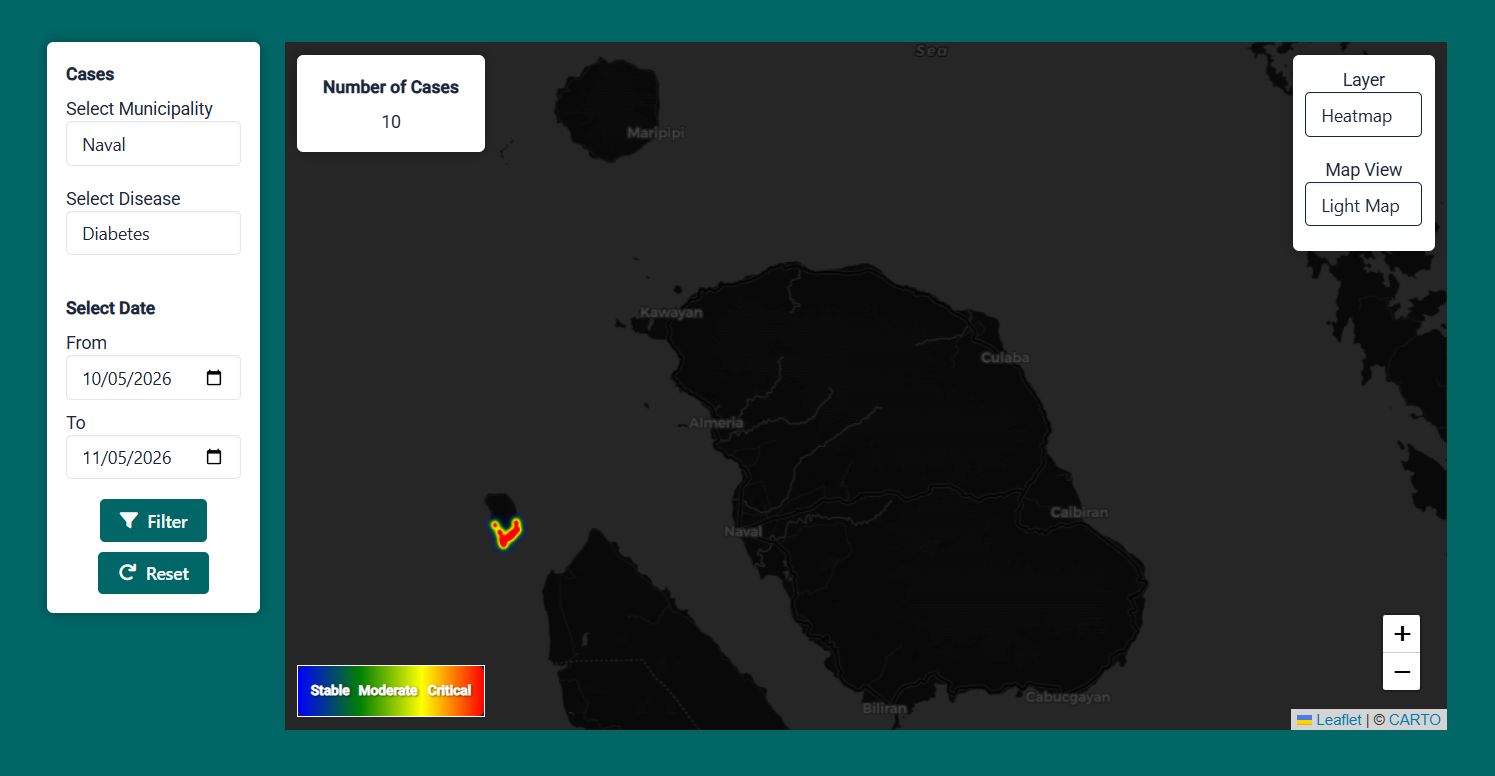
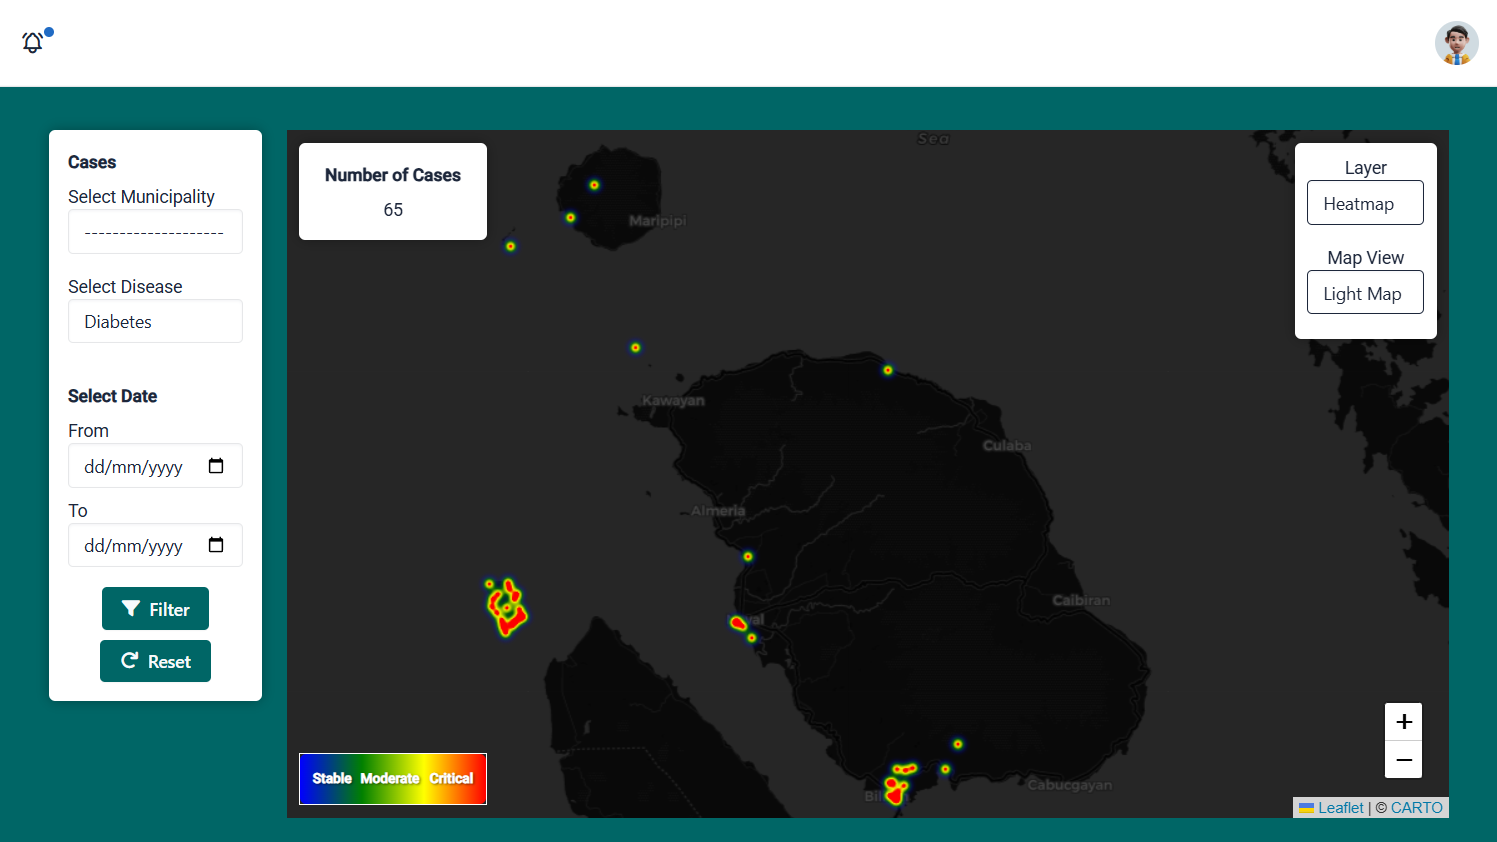
updated preview image, and tighten up readme

diff --git a/README.md b/README.md
@@ -1,6 +1,6 @@
 # Heat Mapping of Various Health Cases in Biliran Province
 
-A web-based Geographic Information System (GIS) for monitoring disease patterns in Biliran Province. Built with Leaflet.js, PHP, and MySQL, it renders health case data as interactive heatmaps and choropleth maps with a threshold-based alert system.
+A web-based GIS for monitoring disease patterns in Biliran Province. Built with Leaflet.js, PHP, and MySQL — renders health case data as interactive heatmaps and choropleth maps with a threshold-based alert system.
 
 ![Preview](assets/images/preview.png)
 
@@ -8,9 +8,9 @@ A web-based Geographic Information System (GIS) for monitoring disease patterns 
 
 - **Heat Map Layer** — Weighted heatmap overlay showing disease density across the province.
 - **Choropleth Map** — Color-coded barangay-level visualization based on case counts.
-- **Threshold-Based Alerts** — Flags barangays/municipalities when weekly case counts exceed a defined threshold (baseline: 10 cases/week).
-- **Multi-Case Tracking** — Supports 5 disease types (Diabetes, Pneumonia, Tuberculosis, HFMD, Monkey Fox) with an architecture designed to accommodate more.
-- **Dual User Roles** — Admin panel for province-level management and Municipality User panel for local data entry.
+- **Threshold-Based Alerts** — Flags barangays/municipalities when weekly cases exceed a defined threshold (default: 10 cases/week).
+- **Multi-Case Tracking** — Supports 5 disease types (Diabetes, Pneumonia, Tuberculosis, HFMD, Monkeypox) with architecture designed to accommodate more.
+- **Dual User Roles** — Admin panel for province-level management; Municipality User panel for local data entry.
 
 ## Tech Stack
 
@@ -44,7 +44,7 @@ A web-based Geographic Information System (GIS) for monitoring disease patterns 
 │   ├── json/                 # GeoJSON & municipality/barangay data
 │   ├── leaflet/              # Leaflet library files
 │   ├── libs/                 # Third-party libs (Bootstrap, etc.)
-│   └── images/               # Uploads and profile images, and preview.png
+│   └── images/               # Uploads, profile images, preview.png
 ├── vendor/                   # Composer dependencies (TCPDF)
 ├── conn.php                  # Database connection (gitignored)
 ├── function.php              # Core application logic (Functions class)
@@ -84,7 +84,7 @@ Create a MySQL database named `health_cases` and import the schema (tables: `adm
 
 4. **Configure database connection**
 
-Copy `conn.example.php` to `conn.php` and update the credentials:
+Copy `conn.example.php` to `conn.php` and update credentials:
 
 ```php
 private $hostdb = "localhost";
@@ -95,21 +95,21 @@ private $namedb = "health_cases";
 
 5. **Serve the application**
 
-If using Laragon, the project is already inside `C:\laragon\www\`, so access it directly at:
+Using Laragon, access directly at:
 
 ```
 http://heat-mapping-of-various-health-cases-in-biliran-province.test
 ```
 
-6. **Access**
+6. **Login URLs**
 
-- Admin login: `/admin/admin_login.php`
-- Municipality User login: `/municipality_user/municipality_user_login.php`
+- Admin: `/admin/admin_login.php`
+- Municipality User: `/municipality_user/municipality_user_login.php`
 
-## Default Threshold
+## Notes
 
-Alert threshold is currently hardcoded at **10 cases per week** across all disease types. This is a starting point — future development should implement per-disease adaptive thresholds based on historical baselines and population density.
+Alert threshold is hardcoded at **10 cases/week** across all disease types. Future development should implement per-disease adaptive thresholds based on historical baselines and population density.
 
 ## License
 
-This project is open source and available under the [MIT License](LICENSE).
+MIT — see [LICENSE](LICENSE).
